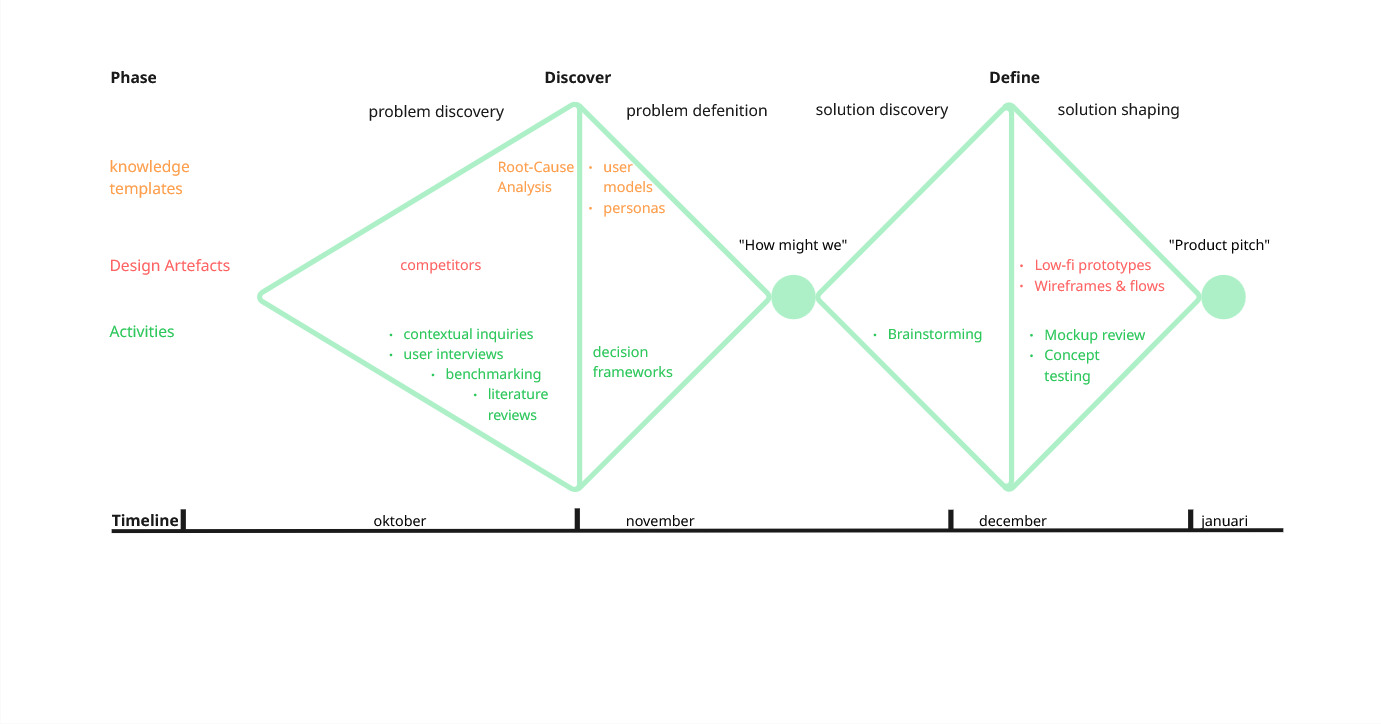
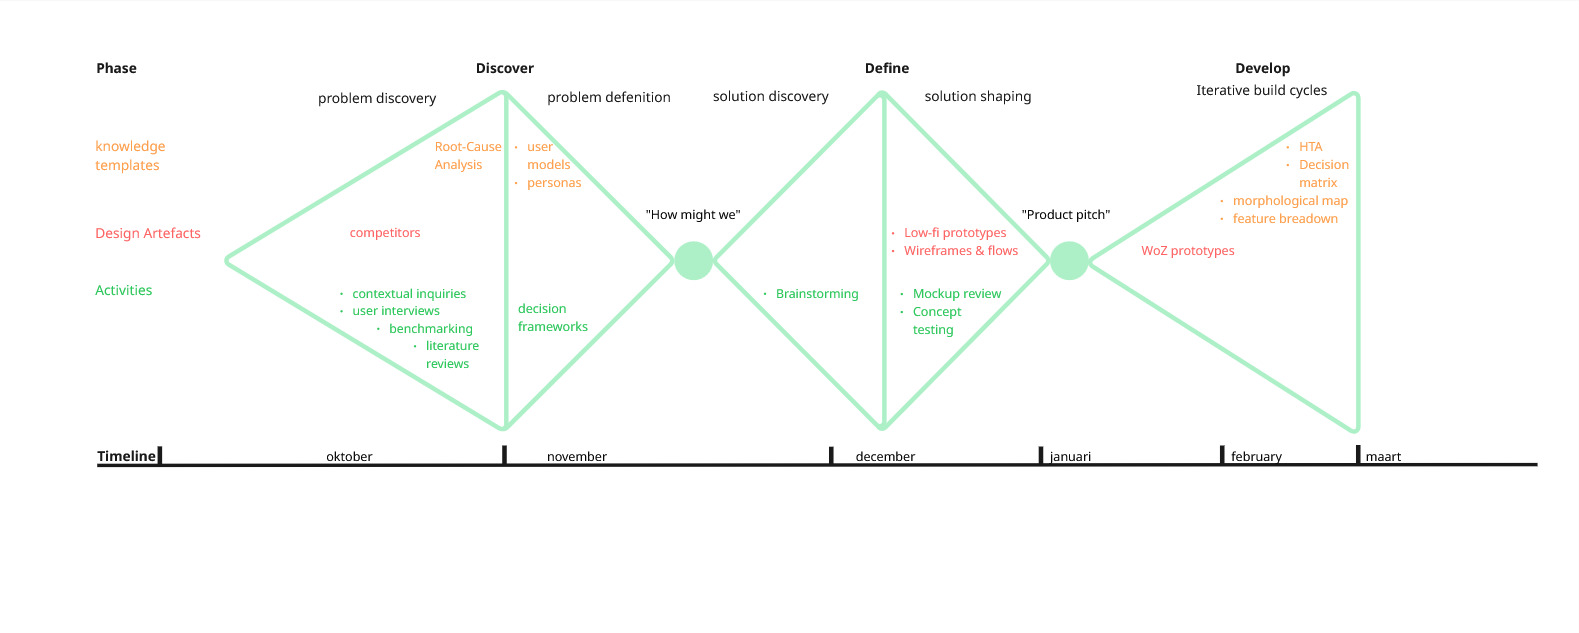
methodologie

diff --git a/docs/methodologie.md b/docs/methodologie.md
@@ -3,8 +3,10 @@
   <img src="../img/methodologie.jpg" width="50%">
 </p>
 
-Voor het onwerp process werd gebruik gemaakt van het triple diamond ontwerpmodel. Dit model bestaat uit 4 fasen, namelijk: discover, difine, develop en deliver.  
+Voor het onwerp process werd gebruik gemaakt van het triple diamond ontwerpmodel. Dit model bestaat uit 4 fasen, namelijk: discover, define, develop en deliver.  
 In het eerste semester werden de discover en define doorlopen.
+
+De eerste wave van de develop fase werd in de eerste maand van het tweede semester doorlopen.
 
 <ins>**Discover fase**</ins>  
 De discoveryfase richtte zich op het begrijpen van waarom huishoudens, ondanks een duidelijke bereidheid om energie te besparen, moeite hebben om dit gedrag structureel vol te houden. De focus lag op dagelijkse routines, perceptie en gebruikservaringen in plaats van op technische optimalisatie. Het doel was de kloof bloot te leggen tussen intentie en daadwerkelijk gedrag, en deze inzichten te vertalen naar onderbouwde designbeslissingen.
@@ -19,3 +21,9 @@ De define fase werd opgesplitst in twee waves:
 **Wave 1** onderzocht hoe het energieprobleem kan worden gecommuniceerd en welke installatie- en functionaliteitsopties aansluiten bij gebruikersverwachtingen. Vier prototypes (emotie, vorm, licht en substations) werden getest via gebruikerstesten en interviews (N=3). Lichtsignalen bleken het duidelijkst en meest intuïtief. Emotionele en antropomorfe communicatie, zoals smileys en spraak, werd begrepen maar contextafhankelijk gewaardeerd: speels voor gezinnen, minder geschikt voor volwassen of zakelijke omgevingen. Personaliseerbaarheid verhoogde betrokkenheid, en negeerknoppen, handsfree bediening en substations verbeterden het gebruiksgemak. Installatie door een technieker werd geprefereerd, met een optie tot zelf installeren.
 
 **Wave 2** richtte zich op de communicatie van energieverlies, automatisatie en de negeerfunctie. Via thinking-aloud- en question-asking-protocollen werden drie interfaces getest (N=3): spraak, tekst en grondplan. Spraak was duidelijk maar traag bij veel informatie, tekst snel scanbaar maar soms contextloos. De grondplanweergave gaf onmiddellijk inzicht in locatie van energieverlies en faciliteerde snelle actie. Gebruikers verwachtten dat EcoLux zoveel mogelijk automatisch ingrijpt, zonder uitgebreide instellingen. Visuele communicatie, snelheid en automatisatie bleken cruciale ontwerpprincipes voor verdere ontwikkeling.
+
+<ins>**Develop fase**</ins>
+
+De develop fase wordt opgesplitst in drie waves:
+
+**Wave 1** 
